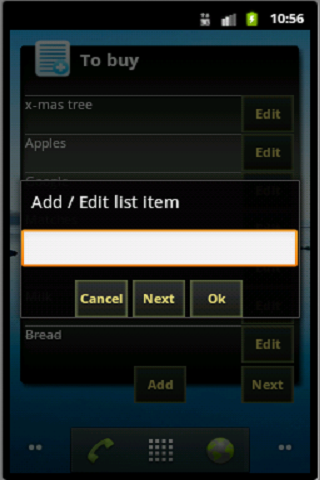
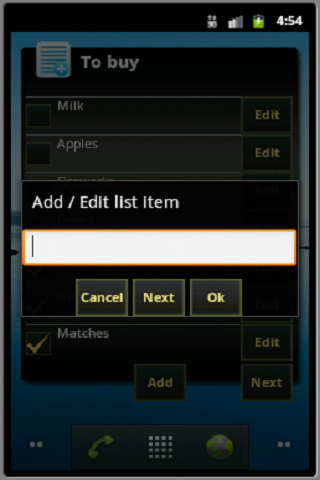
[ADD] checkboxes

diff --git a/src/main/java/org/apmem/widget/notes/SimpleNoteWidgetProvider.java b/src/main/java/org/apmem/widget/notes/SimpleNoteWidgetProvider.java
@@ -158,9 +158,11 @@ public abstract class SimpleNoteWidgetProvider extends AppWidgetProvider {
         int itemId = item.getId();
         RemoteViews newView = new RemoteViews(remoteViews.getPackage(), R.layout.widget_layout_row);
         newView.setTextViewText(R.id.widget_layout_row_text, text);
+        newView.setInt(R.id.widget_layout_row_checkbox, "setImageResource", item.isDone() ? R.drawable.checked : R.drawable.unchecked);
         remoteViews.addView(R.id.widget_layout_list, newView);
         this.setEventActivity(context, SimpleNoteWidgetItemActivity.class, newView, appWidgetId, itemId, R.id.widget_layout_row_button_edit);
         this.setEventBroadcast(context, newView, Constants.ACTION_WIDGET_UPDATE_FROM_WIDGET_READY_ITEM, appWidgetId, itemId, R.id.widget_layout_row_text);
+        this.setEventBroadcast(context, newView, Constants.ACTION_WIDGET_UPDATE_FROM_WIDGET_READY_ITEM, appWidgetId, itemId, R.id.widget_layout_row_checkbox);
     }
 
     private void updateWidget(Context context, RemoteViews remoteViews, int appWidgetId) {
